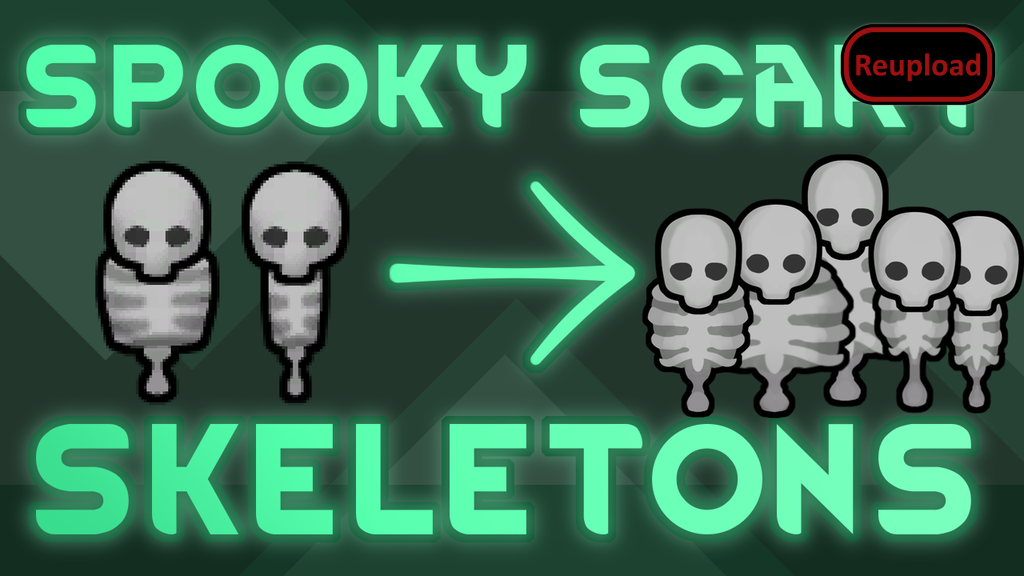
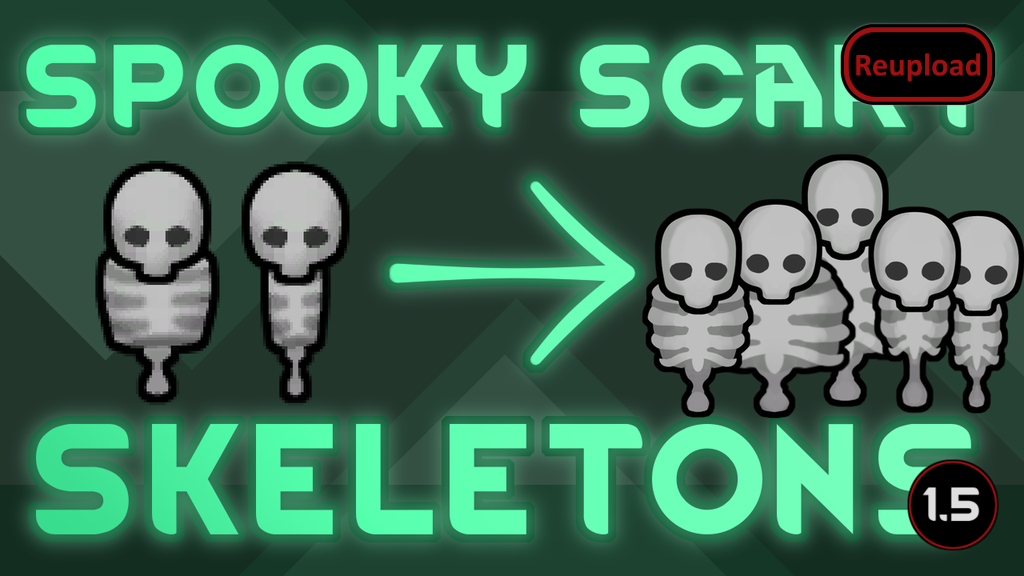
Mod updated for 1.5 and passed autotests

Changed region(s): [[0.875, 0.7812, 1.0, 0.9688]]

diff --git a/Source/ReplaceSkeletons/PawnGraphicSet_ResolveAllGraphics.cs b/Source/ReplaceSkeletons/PawnGraphicSet_ResolveAllGraphics.cs
@@ -4,15 +4,15 @@ using Verse;
 
 namespace ReplaceSkeletons.Patches;
 
-[HarmonyPatch(typeof(PawnGraphicSet))]
-[HarmonyPatch("ResolveAllGraphics")]
+[HarmonyPatch(typeof(PawnRenderNode_Head), nameof(PawnRenderNode_Head.GraphicFor))]
 public class PawnGraphicSet_ResolveAllGraphics
 {
-    private static void Postfix(ref PawnGraphicSet __instance)
+    private static void Postfix(Pawn pawn, ref Graphic __result)
     {
-        if (__instance.pawn?.story?.headType.defName.ToLower().Contains("narrow") == true)
+        if (pawn.Drawer.renderer.CurRotDrawMode == RotDrawMode.Dessicated &&
+            pawn.story?.headType.defName.ToLower().Contains("narrow") == true)
         {
-            __instance.skullGraphic = HeadTypeDefOf.NarrowSkull.GetGraphic(Color.white, true);
+            __result = HeadTypeDefOf.NarrowSkull.GetGraphic(pawn, Color.white);
         }
     }
 }

diff --git a/README.md b/README.md
@@ -22,9 +22,13 @@ Textures - Kasmex Forever
 
 -  See if the the error persists if you just have this mod and its requirements active.
 -  If not, try adding your other mods until it happens again.
--  Post your error-log using https://steamcommunity.com/workshop/filedetails/?id=818773962]HugsLib and command Ctrl+F12
+-  Post your error-log using https://steamcommunity.com/workshop/filedetails/?id=818773962]HugsLib or the standalone https://steamcommunity.com/sharedfiles/filedetails/?id=2873415404]Uploader and command Ctrl+F12
 -  For best support, please use the Discord-channel for error-reporting.
 -  Do not report errors by making a discussion-thread, I get no notification of that.
 -  If you have the solution for a problem, please post it to the GitHub repository.
+-  Use https://github.com/RimSort/RimSort/releases/latest]RimSort to sort your mods
 
+
+
+https://steamcommunity.com/sharedfiles/filedetails/changelog/2989256051]![Image](https://img.shields.io/github/v/release/emipa606/SpookyScarySkeletons?label=latest%20version&style=plastic&color=9f1111&labelColor=black)
 
